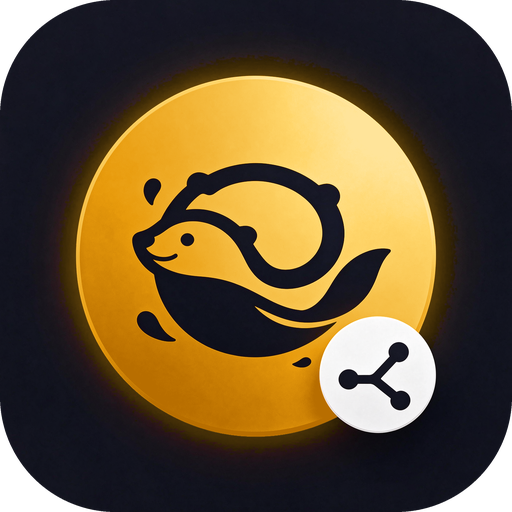
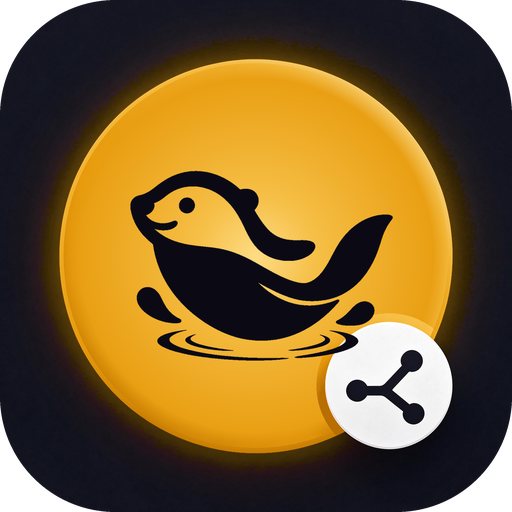
git: 在线试用品牌图与 demo 页同步 3.0 图标

diff --git a/git/demo/index.html b/git/demo/index.html
@@ -667,32 +667,46 @@ button{font:inherit;color:inherit;background:none;border:0;cursor:pointer}
 const EXPR='https://otter-family-site.tos-cn-beijing.volces.com/expr/v3/anim_270/';
 /* 水獭家族 120 表情：按 Git 动作语义挑——推送 = 拖箱出门、拉取 = 抵达、标签 = 纪念品、拣选 = 抽卡、变基整理 = 打扫 */
 const POOL={
-  greetNight:['night','sleepy','goodnight','overtime'],greetMorning:['morning','hi','cafe','stretch'],greetDay:['happy','smile','focus','cafe','tea'],
-  greetEvening:['hi','sunset','relax','milktea'],greetWeekend:['weekend','relax','music','milktea'],noRepo:['hi','welcome','map'],
-  clean:['clean','calm','relax','smile'],dirty:['focus','write','note','study'],dirtyMany:['busy','sweat','deadline'],
-  conflict:['scared','sweat','please'],conflictMany:['angry','shock','speechless'],inProgress:['focus','plan','loading'],
-  unpushed:['luggage','travel'],behind:['map','read','think'],busy:['loading','queue'],detached:['map','shock','speechless'],
-  aiIdle:['hi','smile','welcome','tea'],aiThinking:['think','idea'],aiError:['sorry','sad','cry'],aiNoModel:['please','bashful','shy'],aiDone:['ok','done','smile'],
-  settings:['outfit','plan','calm'],about:['love','hug','thanks','friends'],
-  pet:['laugh','shy','happy','love','hug','smile','bashful','pout','yum','lucky','wave'],
-  commit:['done','ok','proud','note'],commitNight:['overtime','night','goodnight'],commitNoon:['eat','rice','noodles'],
-  commitWeekend:['weekend','cafe','overtime'],commitFirstToday:['morning','start','cheer'],commitMilestone:['victory','celebrate','highlight'],
-  push:['travel','great','cheer'],pull:['arrive','relief'],merge:['coop','friends','hug'],resolved:['relief','clear','done'],
-  tag:['souvenir','photo','highlight'],stash:['luggage','nap'],undo:['retry','relief'],cherryPick:['gacha','lucky'],revert:['retry','review'],
-  rebaseDone:['clean','done'],clone:['welcome','arrive','hi'],branch:['map','hike','plan'],info:['ok','smile','hi'],
-  fail:['sad','defeat','cry'],failNetwork:['rain','wind','gg'],failAuth:['bashful','ask','sorry'],
-  ask:['ask','think','please'],askDanger:['pause','scared','shock'],emptySearch:['speechless','bashful','map'],
-  emptyHistory:['read','plan','calm'],pickCommit:['review','read','think'],emptyTerminal:['focus','write'],
+  greetNight:['night','sleepy','goodnight','overtime','tea'],greetDawn:['sleepy','nap','drink','sick','goodnight'],
+  greetMorning:['morning','hi','cafe','stretch','jog','drink'],greetDay:['happy','smile','focus','cafe','tea','study','plan'],
+  greetEvening:['hi','sunset','relax','milktea','stroll','music'],greetFriday:['weekend','celebrate','milktea','sunset','music'],
+  greetWeekend:['weekend','relax','music','milktea','story','snack','stroll'],noRepo:['hi','welcome','map','wave'],
+  clean:['clean','calm','relax','smile','clear','tea'],dirty:['focus','write','note','study','plan'],
+  dirtyMany:['busy','sweat','deadline','grind','mountain'],conflict:['scared','sweat','please','bashful'],
+  conflictMany:['angry','shock','speechless','rage','sick'],inProgress:['focus','plan','loading','grind'],unpushed:['luggage','travel','plan'],
+  behind:['map','read','think','queue'],busy:['loading','queue','focus','grind'],detached:['map','shock','speechless','think'],
+  fetching:['map','read','queue','think'],pulling:['queue','loading','map','travel'],pushing:['luggage','travel','loading','sweat'],
+  pushingForce:['focus','sweat','scared','please'],cloning:['luggage','map','loading','queue'],aiIdle:['hi','smile','welcome','tea','wave','cafe'],
+  aiThinking:['think','idea','focus','read'],aiWaiting:['think','focus','read','note','write','loading','idea','plan'],
+  aiError:['sorry','sad','cry','gg','bashful'],aiNoModel:['please','bashful','shy','ask'],aiDone:['ok','done','smile','great','thanks'],
+  settings:['outfit','plan','calm','think','clean'],about:['love','hug','thanks','friends','smile','wave'],
+  pet:['laugh','shy','happy','love','hug','smile','bashful','pout','yum','lucky','wave','cheer','great','snack','music','dessert'],
+  commit:['done','ok','proud','note','great','write'],commitNight:['overtime','night','goodnight','sleepy'],commitDawn:['sleepy','sick','drink','nap'],
+  commitNoon:['eat','rice','noodles','hungry','burger','yum'],commitWeekend:['weekend','cafe','overtime','relax','music'],
+  commitFriday:['weekend','sunset','celebrate','milktea'],commitFirstToday:['morning','start','cheer','quest','cafe'],
+  commitMilestone:['victory','celebrate','highlight','proud','cheer'],amend:['write','retry','outfit','note'],
+  push:['travel','great','cheer','wave','salute'],pushFirst:['start','wave','travel','cheer'],pushMany:['mountain','rank','win','victory'],
+  pushNight:['goodnight','overtime','night','sleepy'],pushFriday:['lucky','please','weekend','sunset'],pushForce:['relief','sweat','salute'],
+  pull:['arrive','relief','read','ok'],pullMany:['feast','read','shock','busy'],merge:['coop','friends','hug','ok','done'],
+  resolved:['relief','clear','done','ok','heal'],tag:['souvenir','photo','highlight','proud'],stash:['luggage','nap','note','pause'],
+  stashRestore:['arrive','ok','relief'],undo:['retry','relief','sorry','review'],cherryPick:['gacha','lucky','highlight','fruit'],
+  revert:['retry','review','sorry'],rebaseDone:['clean','done','clear','great'],clone:['welcome','arrive','hi','cheer'],
+  branch:['map','hike','plan','stroll'],info:['ok','smile','hi','note'],fail:['sad','defeat','cry','lose','speechless'],
+  failNetwork:['rain','wind','gg','snow','queue'],failAuth:['bashful','ask','sorry','please'],failRejected:['queue','retry','map','bashful'],
+  ask:['ask','think','please','bashful'],askDanger:['pause','scared','shock','sweat'],emptySearch:['speechless','bashful','map','think'],
+  emptyHistory:['read','plan','calm','write','start'],pickCommit:['review','read','think','note'],emptyTerminal:['focus','write','study','idea'],
+  emptyAiLog:['note','calm','read'],
   /* 原型独有的位置 */
   memory:['note','read','highlight'],commitHint:['idea','ok','think']
 };
 const ALIAS={alert:'conflict',milestone:'commitMilestone',night:'greetNight'};
-/* 与 App 的 greetSceneAt / commitSceneAt 同一裁决：时段 + 周末 */
+/* 与 App 的 greetSceneAt / commitSceneAt / pushSceneAt 同一裁决：凌晨 + 时段 + 周五 + 周末 */
 function dayPart(h){return h<5||h>=23?'night':h<11?'morning':h<13?'noon':h<18?'afternoon':'evening'}
 function resolveScene(scene){
-  const now=new Date(),part=dayPart(now.getHours()),weekend=now.getDay()===0||now.getDay()===6;
-  if(scene==='greet'){if(part==='night')return'greetNight';if(weekend)return'greetWeekend';return{morning:'greetMorning',noon:'greetDay',afternoon:'greetDay',evening:'greetEvening'}[part]}
-  if(scene==='commit'){if(part==='night')return'commitNight';if(typeof todayCount!=='undefined'&&todayCount===1)return'commitFirstToday';if(weekend)return'commitWeekend';if(part==='noon')return'commitNoon';return'commit'}
+  const now=new Date(),h=now.getHours(),part=dayPart(h),dow=now.getDay(),weekend=dow===0||dow===6,dawn=h>=2&&h<5,fri=n=>dow===5&&h>=n;
+  if(scene==='greet'){if(dawn)return'greetDawn';if(part==='night')return'greetNight';if(fri(13))return'greetFriday';if(weekend)return'greetWeekend';return{morning:'greetMorning',noon:'greetDay',afternoon:'greetDay',evening:'greetEvening'}[part]}
+  if(scene==='commit'){if(dawn)return'commitDawn';if(part==='night')return'commitNight';if(typeof todayCount!=='undefined'&&todayCount===1)return'commitFirstToday';if(weekend)return'commitWeekend';if(fri(17))return'commitFriday';if(part==='noon')return'commitNoon';return'commit'}
+  if(scene==='push'){if(part==='night')return'pushNight';if(fri(15))return'pushFriday';return'push'}
   return ALIAS[scene]||scene;
 }
 const last={};
